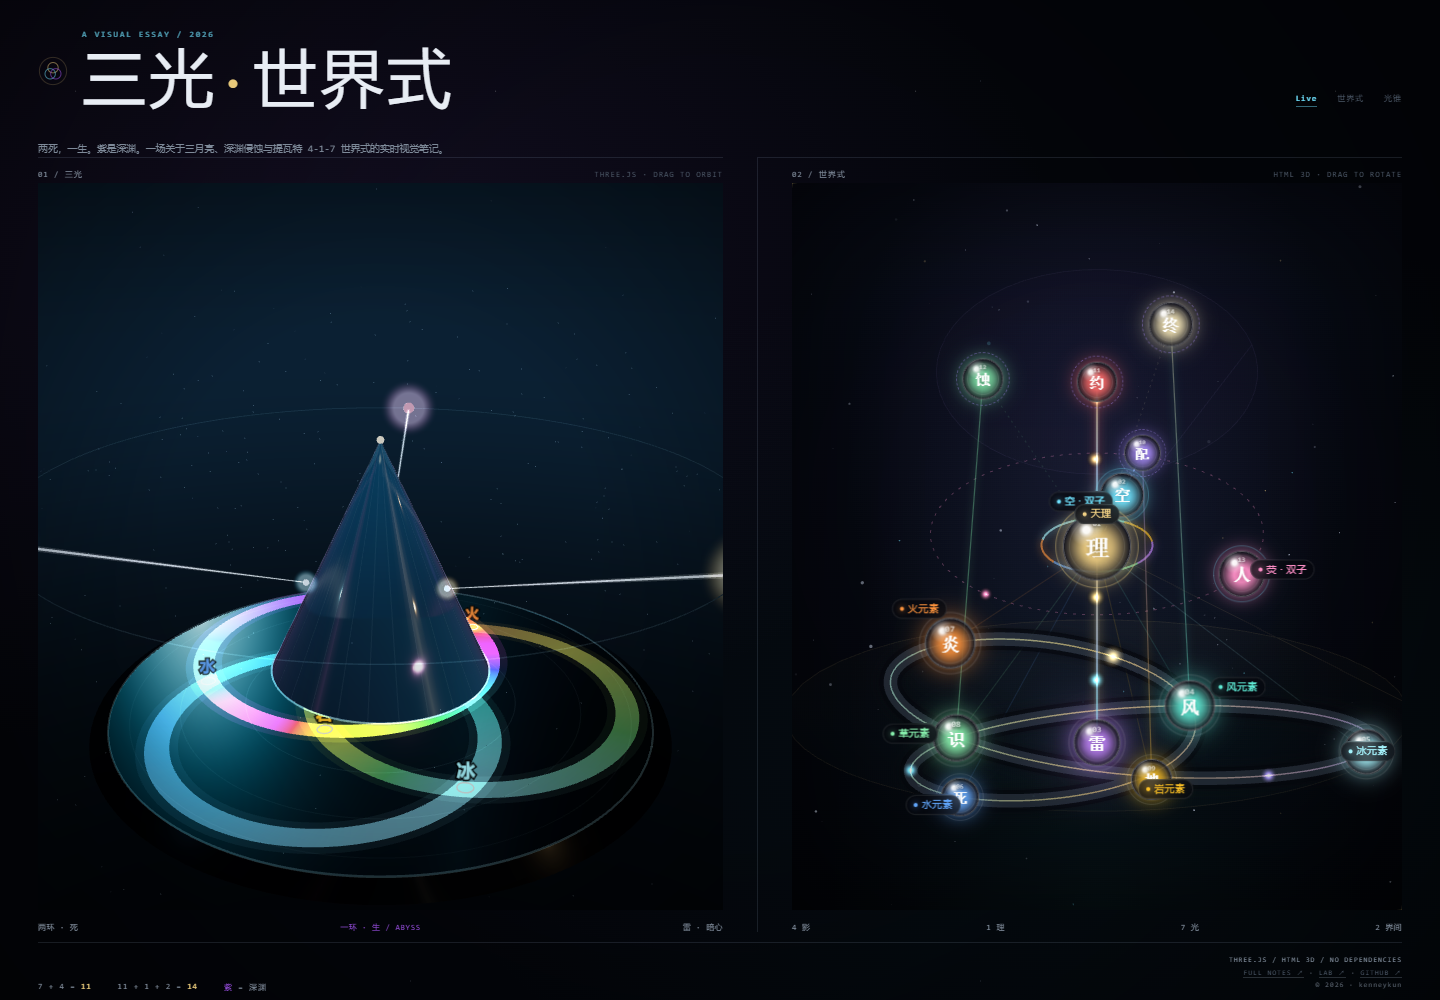
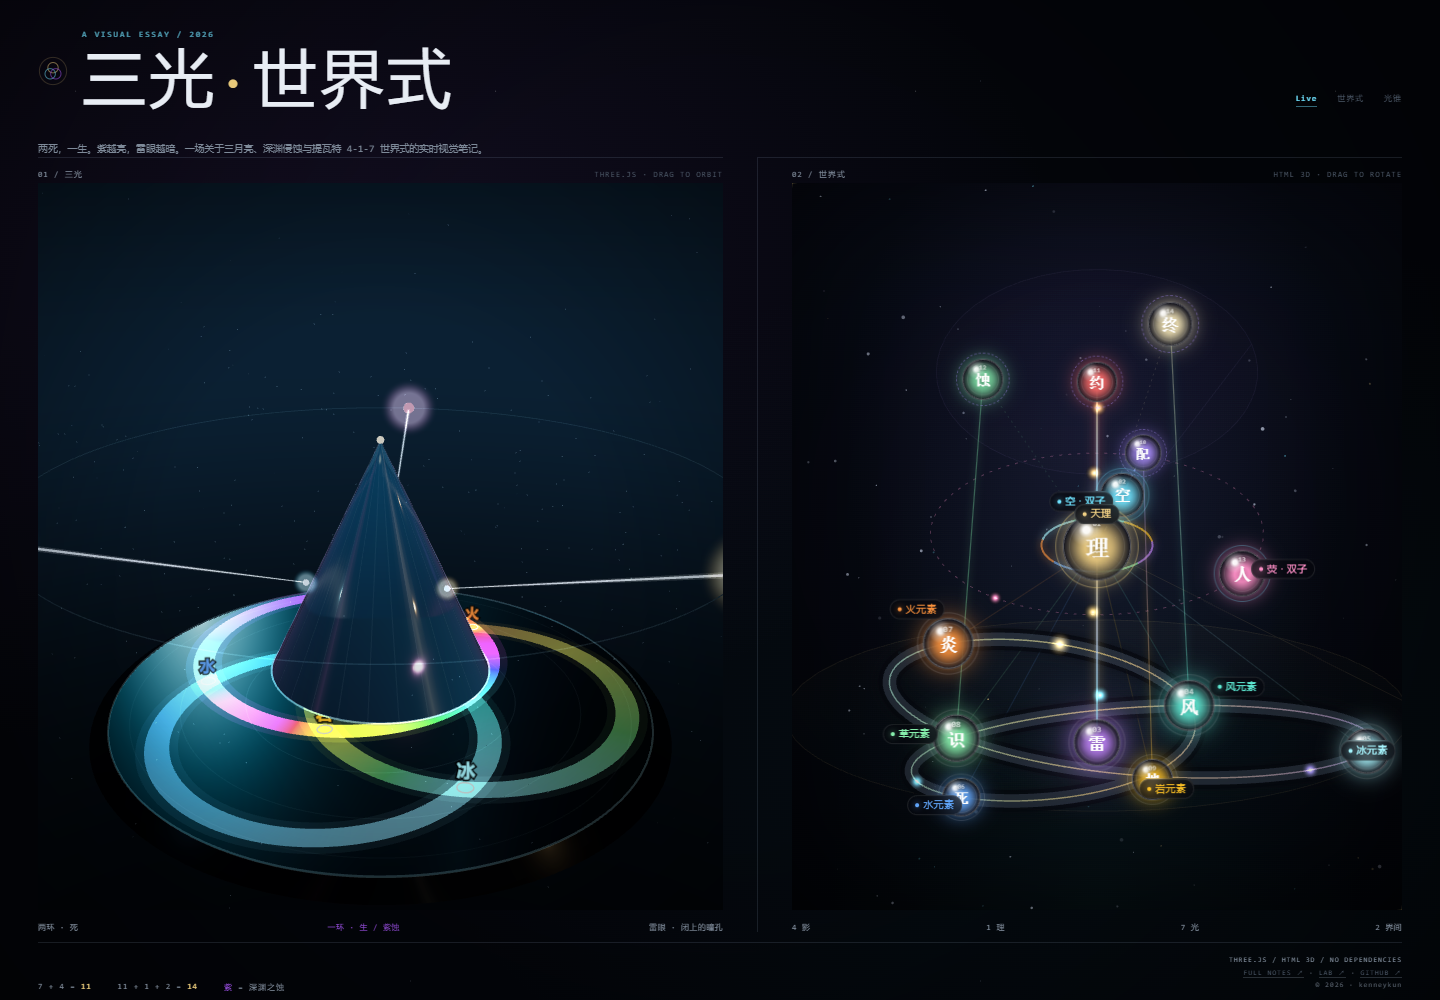
Refine Abyss and Electro Vision copy

diff --git a/docs/index.html b/docs/index.html
@@ -4,7 +4,7 @@
 <meta charset="utf-8">
 <meta name="viewport" content="width=device-width, initial-scale=1">
 <title>三光 · 世界式 — A Visual Essay</title>
-<meta name="description" content="三月亮、深渊侵蚀与提瓦特 4-1-7 世界式的实时视觉笔记。Three.js 光锥与 HTML 3D 十四节点。">
+<meta name="description" content="两死，一生。紫越亮，雷眼越暗。三月亮、深渊侵蚀与提瓦特 4-1-7 世界式的实时视觉笔记。">
 <meta name="theme-color" content="#03050a">
 <meta name="color-scheme" content="dark">
 <meta name="author" content="kenneykun">
@@ -14,14 +14,14 @@
 <meta property="og:site_name" content="三光 · 世界式">
 <meta property="og:url" content="https://kenneykun.github.io/genshin347puzzle/">
 <meta property="og:title" content="三光 · 世界式">
-<meta property="og:description" content="两死，一生。紫是深渊。Three.js 光锥 × HTML 3D 世界式。">
+<meta property="og:description" content="两死，一生。紫越亮，雷眼越暗。Three.js 光锥 × HTML 3D 世界式。">
 <meta property="og:image" content="https://kenneykun.github.io/genshin347puzzle/world_formula_live_preview.png">
 <meta property="og:image:alt" content="三光 · 世界式 — Three.js 光锥与 HTML 3D 世界式">
 <meta property="og:image:width" content="1440">
 <meta property="og:image:height" content="1000">
 <meta name="twitter:card" content="summary_large_image">
 <meta name="twitter:title" content="三光 · 世界式">
-<meta name="twitter:description" content="两死，一生。紫是深渊。Three.js 光锥 × HTML 3D 世界式。">
+<meta name="twitter:description" content="两死，一生。紫越亮，雷眼越暗。Three.js 光锥 × HTML 3D 世界式。">
 <meta name="twitter:image" content="https://kenneykun.github.io/genshin347puzzle/world_formula_live_preview.png">
 <style>
   :root{
@@ -170,7 +170,7 @@
     </nav>
   </header>
 
-  <p class="lede">两死，一生。紫是深渊。一场关于三月亮、深渊侵蚀与提瓦特 4-1-7 世界式的实时视觉笔记。</p>
+  <p class="lede">两死，一生。紫越亮，雷眼越暗。一场关于三月亮、深渊侵蚀与提瓦特 4-1-7 世界式的实时视觉笔记。</p>
 
   <main class="poster" id="live">
     <section class="figure">
@@ -180,8 +180,8 @@
       </div>
       <div class="fig-foot">
         <span>两环 · 死</span>
-        <span class="live">一环 · 生 / Abyss</span>
-        <span>雷 · 暗心</span>
+        <span class="live">一环 · 生 / 紫蚀</span>
+        <span>雷眼 · 闭上的瞳孔</span>
       </div>
     </section>
 
@@ -203,7 +203,7 @@
     <div class="eq">
       <span>7 + 4 = <b>11</b></span>
       <span>11 + 1 + 2 = <b>14</b></span>
-      <span><i>紫</i> = 深渊</span>
+      <span><i>紫</i> = 深渊之蚀</span>
     </div>
     <div class="meta">
       <b>THREE.JS / HTML 3D / NO DEPENDENCIES</b><br>

diff --git a/docs/world_formula_visual.html b/docs/world_formula_visual.html
@@ -4,7 +4,7 @@
 <meta charset="utf-8">
 <meta name="viewport" content="width=device-width, initial-scale=1">
 <title>三光 · 世界式</title>
-<meta name="description" content="三光与十四节点的视觉合成：两死，一生，紫为深渊。">
+<meta name="description" content="三光与十四节点的视觉合成：两死，一生，紫越亮，雷眼越暗。">
 <style>
   :root{
     --bg:#03050a;
@@ -157,7 +157,7 @@
       <div class="kicker">Three moons · World formula</div>
       <h1>三光<em>·</em>世界式</h1>
     </div>
-    <p class="sub">两死，一生。紫是深渊。</p>
+    <p class="sub">两死，一生。紫越亮，雷眼越暗。</p>
   </header>
 
   <main class="poster">
@@ -166,8 +166,8 @@
       <div class="canvas-wrap"><canvas id="moons" width="900" height="900" aria-label="三光与七元节点"></canvas></div>
       <div class="fig-foot">
         <span>两环 · 死</span>
-        <span class="live">一环 · 生 / Abyss</span>
-        <span>雷 · 暗心</span>
+        <span class="live">一环 · 生 / 紫蚀</span>
+        <span>雷眼 · 闭上的瞳孔</span>
       </div>
     </section>
 
@@ -284,7 +284,7 @@
     <div class="eq">
       <span>7 + 4 = <b>11</b></span>
       <span>11 + 1 + 2 = <b>14</b></span>
-      <span><i>紫</i> = 深渊</span>
+      <span><i>紫</i> = 深渊之蚀</span>
     </div>
     <div class="mark">THREE MOONS / ONE PRISM</div>
   </footer>
